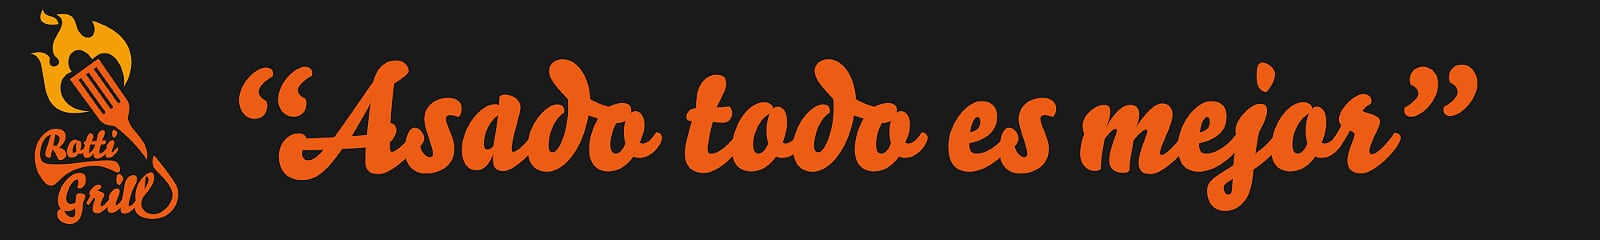
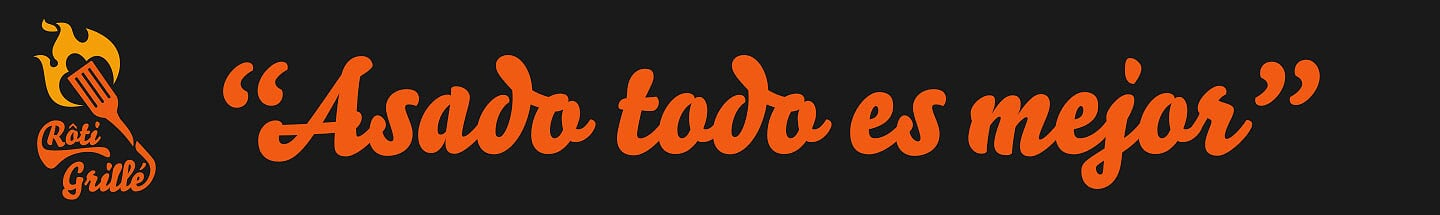
sistema web

diff --git a/src/app/reportes/reporte-empleados/reporte-empleados.component.ts b/src/app/reportes/reporte-empleados/reporte-empleados.component.ts
@@ -111,7 +111,7 @@ export class ReporteEmpleadosComponent implements OnInit {
     });
     const pdfEmpleados = new jspdf("portrait", "px", "a4") as jsPDFWithPlugin;
     pdfEmpleados.addImage(data, 'PNG', 10, 10, 30, 30)  
-    pdfEmpleados.text("Reporte de empleados - Roti Grillé", 50, 30);
+    pdfEmpleados.text("Reporte de empleados - Rôti Grillé", 50, 30);
     pdfEmpleados.autoTable({
       margin: {top: 60},
       head: [['Cedula', 'Nombre', 'Apellido', 'Email', 'Contacto', 'Dirección', 'Cargo']],

diff --git a/src/app/reportes/reporte-ventas/reporte-ventas.component.ts b/src/app/reportes/reporte-ventas/reporte-ventas.component.ts
@@ -196,7 +196,7 @@ export class ReporteVentasComponent implements OnInit {
     });
     const pdfVentas = new jspdf("portrait","px","a4") as jsPDFWithPlugin;
     pdfVentas.addImage(data, 'PNG', 10, 10, 30, 30)  
-    pdfVentas.text("Reporte de ventas - Roti Grillé", 50, 30);
+    pdfVentas.text("Reporte de ventas - Rôti Grillé", 50, 30);
     pdfVentas.autoTable({
       margin: {top: 60},
       head: [['# Mesa', '# Pedido', 'Fecha', 'Estado', 'Total']],

diff --git a/src/app/reportes/reporte-menu/reporte-menu.component.ts b/src/app/reportes/reporte-menu/reporte-menu.component.ts
@@ -113,7 +113,7 @@ export class ReporteMenuComponent implements OnInit, OnDestroy {
     var id = document.getElementById('tabMenu');
     const doc = new jspdf('portrait', 'px', 'a4') as jsPDFWithPlugin;
     doc.addImage(data, 'PNG', 10, 10, 30, 30)  
-    doc.text("Reporte del menú - Roti Grillé", 50, 30);
+    doc.text("Reporte del menú - Rôti Grillé", 50, 30);
     doc.autoTable({
       margin: {top: 60},
       head: [['Nombre', 'Precio']],
